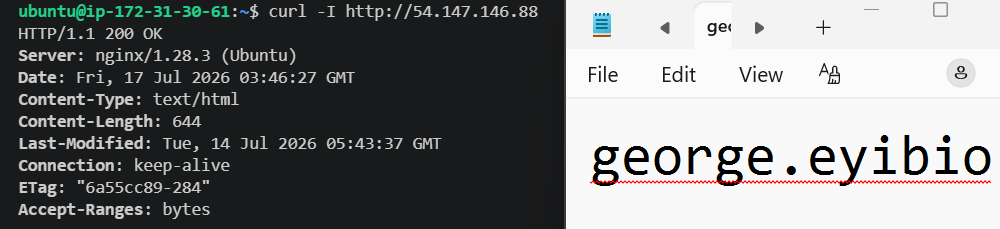
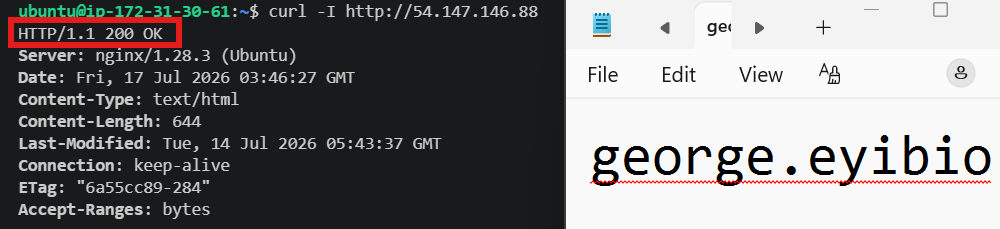
Assignment 03 number 3 completed

Changed region(s): [[0.0, 0.0611, 0.186, 0.214]]

diff --git a/week-03-linux-and-bash-for-devops/assignment-03-production-maintenance-drill-ops-checklist.md b/week-03-linux-and-bash-for-devops/assignment-03-production-maintenance-drill-ops-checklist.md
@@ -446,7 +446,7 @@ Cloud resources should be stopped or terminated when they are no longer needed t
 
 Paste your LinkedIn post URL here:
 
-`__________________________`
+`https://www.linkedin.com/posts/effiong-eyibio-58207286_%F0%9D%97%AA%F0%9D%97%B2%F0%9D%97%B2%F0%9D%97%B8-%F0%9D%9F%AC%F0%9D%9F%AF-%F0%9D%91%83%F0%9D%91%8E%F0%9D%91%9F%F0%9D%91%A1-2-%F0%9D%97%A3%F0%9D%97%BF%F0%9D%97%BC%F0%9D%97%B1%F0%9D%98%82%F0%9D%97%B0%F0%9D%98%81%F0%9D%97%B6%F0%9D%97%BC%F0%9D%97%BB-ugcPost-7483744155408568320-5f4S/?utm_source=share&utm_medium=member_desktop&rcm=ACoAABIpp7IB2uLQWBwAPAfjOt0Din_uqvLdTAQ`
 
 ---
 